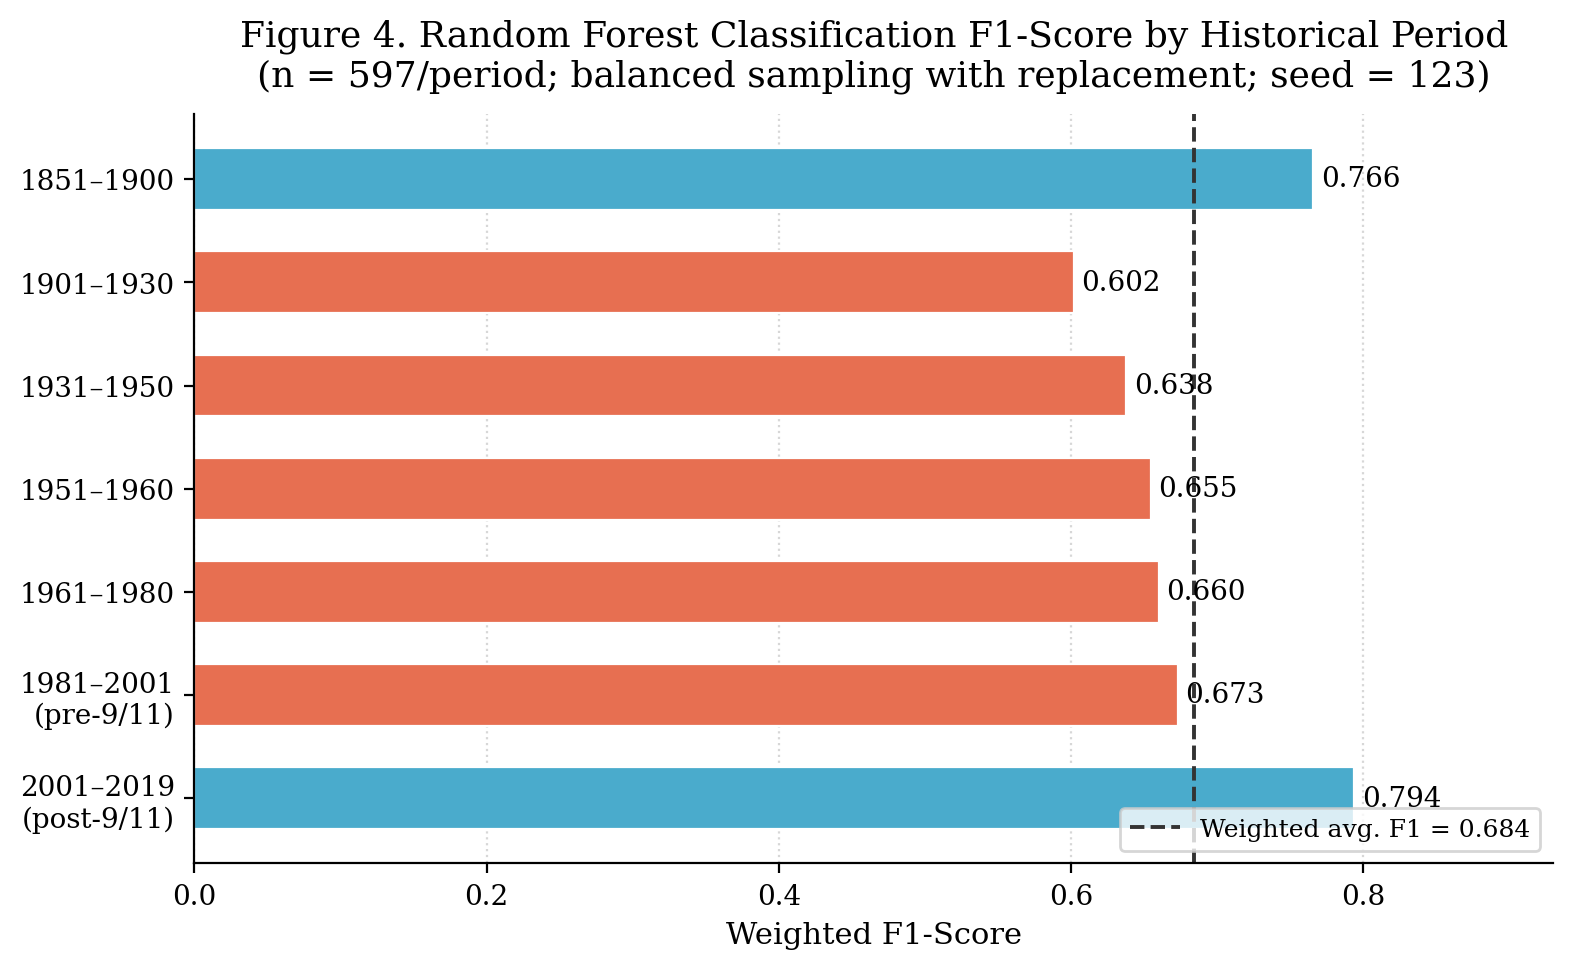
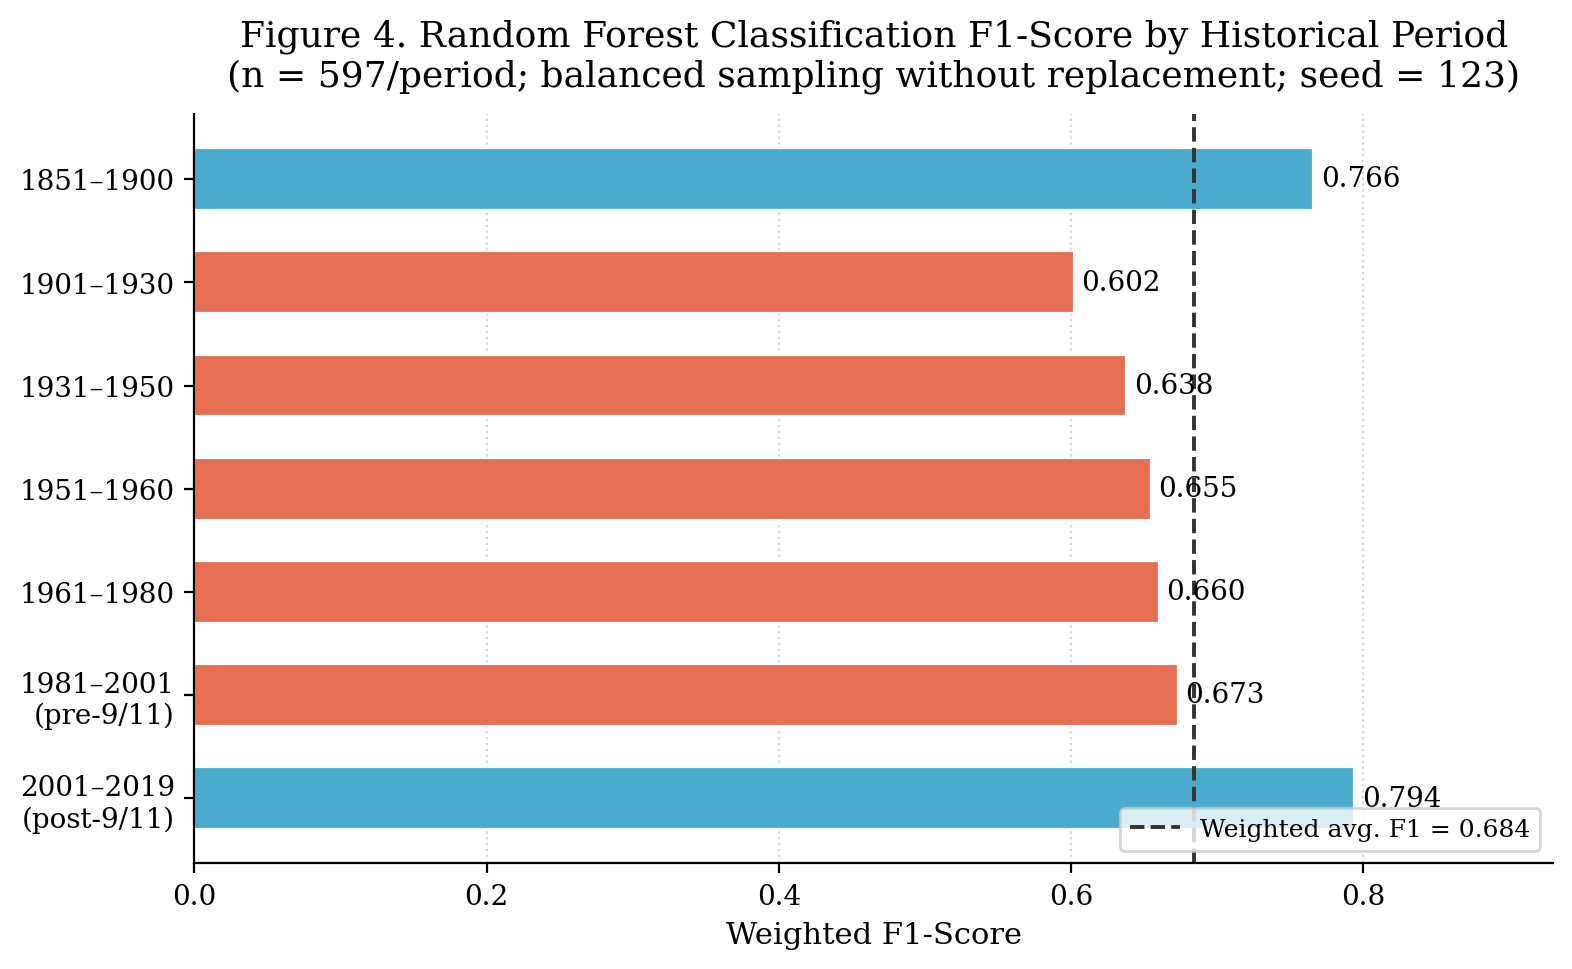
Fix stale figure-title text (sampling description and vocabulary size)

Changed region(s): [[0.1559, 0.0619, 0.9663, 0.0929]]

diff --git a/code/generate_rf_figures.py b/code/generate_rf_figures.py
@@ -143,7 +143,7 @@ ax.axvline(OVERALL_F1, color='#333333', linestyle='--', linewidth=1.4,
 
 ax.set_xlabel('Weighted F1-Score')
 ax.set_title('Figure 4. Random Forest Classification F1-Score by Historical Period\n'
-             '(n = 597/period; balanced sampling with replacement; seed = 123)',
+             '(n = 597/period; balanced sampling without replacement; seed = 123)',
              pad=10)
 ax.set_xlim(0, 0.93)
 ax.invert_yaxis()   # earliest period at top
@@ -215,7 +215,7 @@ ax.legend(handles=legend_patches, loc='lower right', fontsize=9, framealpha=0.9)
 
 ax.set_xlabel('Gini Feature Importance')
 ax.set_title('Figure 5. Top-20 Random Forest Feature Importances\n'
-             '(Gini criterion; CountVectorizer, 66,012 features)',
+             '(Gini criterion; CountVectorizer, 77,538 features)',
              pad=10)
 ax.spines[['top', 'right']].set_visible(False)
 ax.xaxis.grid(True, linestyle=':', alpha=0.5)
